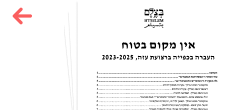
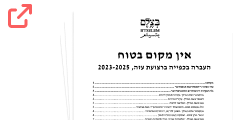
added gofundme button

diff --git a/src/theme.css b/src/theme.css
@@ -106,7 +106,7 @@ section.thumb > a{
     display: block;
     background: #000 url(assets/report_thumb.png) no-repeat right bottom;
     border-right: #FA5F5F 8px solid;
-    padding: 56px 220px 0 0;
+    padding: 48px 220px 0 0;
     color:#FA5F5F;
     height: 80px;
     cursor: pointer;
@@ -116,13 +116,28 @@ section.thumb > a{
 }
 
 section.thumb > a:hover{
-    background: #FA5F5F url(assets/report_thumb_hover.png) no-repeat right bottom;
+    background: #FA5F5F url(assets/report_thumb-hover.png) no-repeat right bottom;
     color: #000;
 }
 
 section.thumb > a strong{
     display: block;
     color: #fff;
+}
+
+section.thumb.gofundme p{
+    border-right: #02A85C 8px solid;
+}
+
+section.thumb.gofundme > a{
+    background: #000 url(assets/gofundme_thumb.png) no-repeat right bottom;
+    border-right: #02A85C 8px solid;
+    color:#02A85C;
+}
+
+section.thumb.gofundme > a:hover{
+    background: #02A85C url(assets/gofundme_thumb-hover.png) no-repeat right bottom;
+    color: #000;
 }
 
 section.testimony {

diff --git a/draft.md b/draft.md
@@ -521,7 +521,16 @@ css: src/theme.css
 
 סיפורה של ניבאל הוא סיפורם של רבים אחרים מתושבי עזה - כמו גם של עזה עצמה - הזקוקים כולם לשיקום ארוך שלא ברור האם ומתי יתאפשר.  
 
-בחודשים האחרונים, סיפורה של ניבאל זכה לפרסום בעיתונות וברשתות החברתיות. היא מקווה שבעזרת הפרסום תצליח לגייס כסף כדי לצאת מהרצועה ולעבור השתלה של גפיים תותבות.`
+
+{.meta thumb gofundme}
+בחודשים האחרונים, סיפורה של ניבאל זכה לפרסום בעיתונות וברשתות החברתיות. היא מקווה שבעזרת הפרסום תצליח לגייס כסף כדי לצאת מהרצועה ולעבור השתלה של גפיים תותבות.
+
+<a href="https://www.gofundme.com/f/help-nebal-survive-in-gaza" target="blank">
+    הצטרפו לקמפיין:
+    <strong>
+    בואו נושיט ידיים לניבאל
+    </strong>
+</a>
 
 
 {.subheader}
